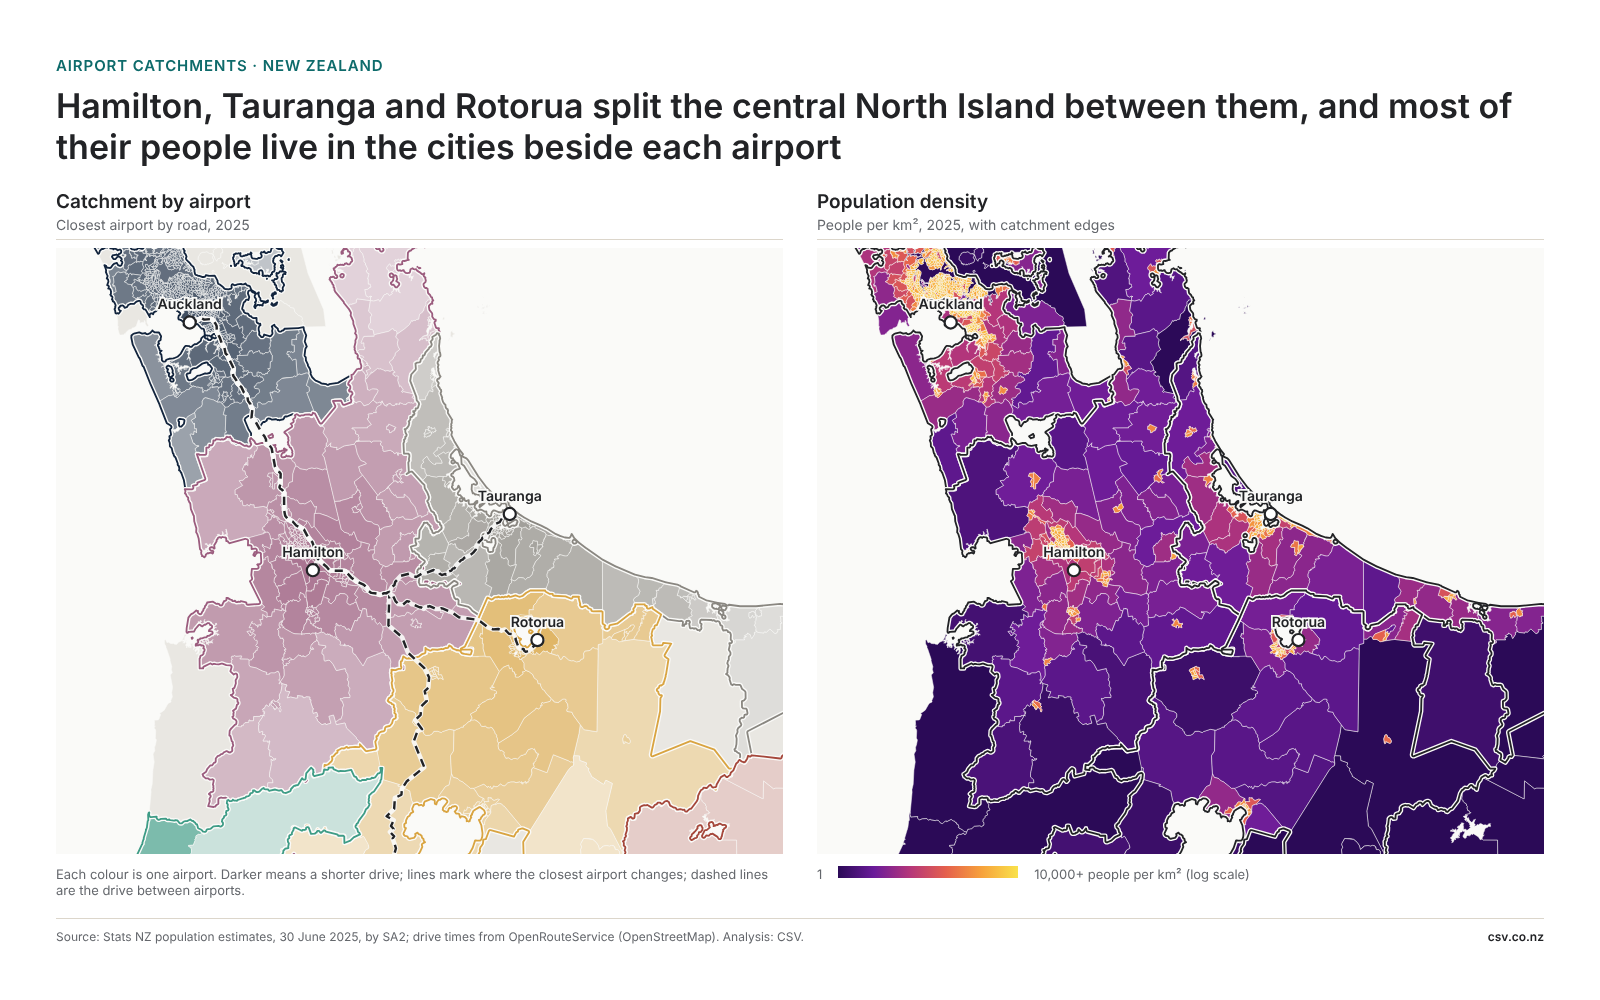
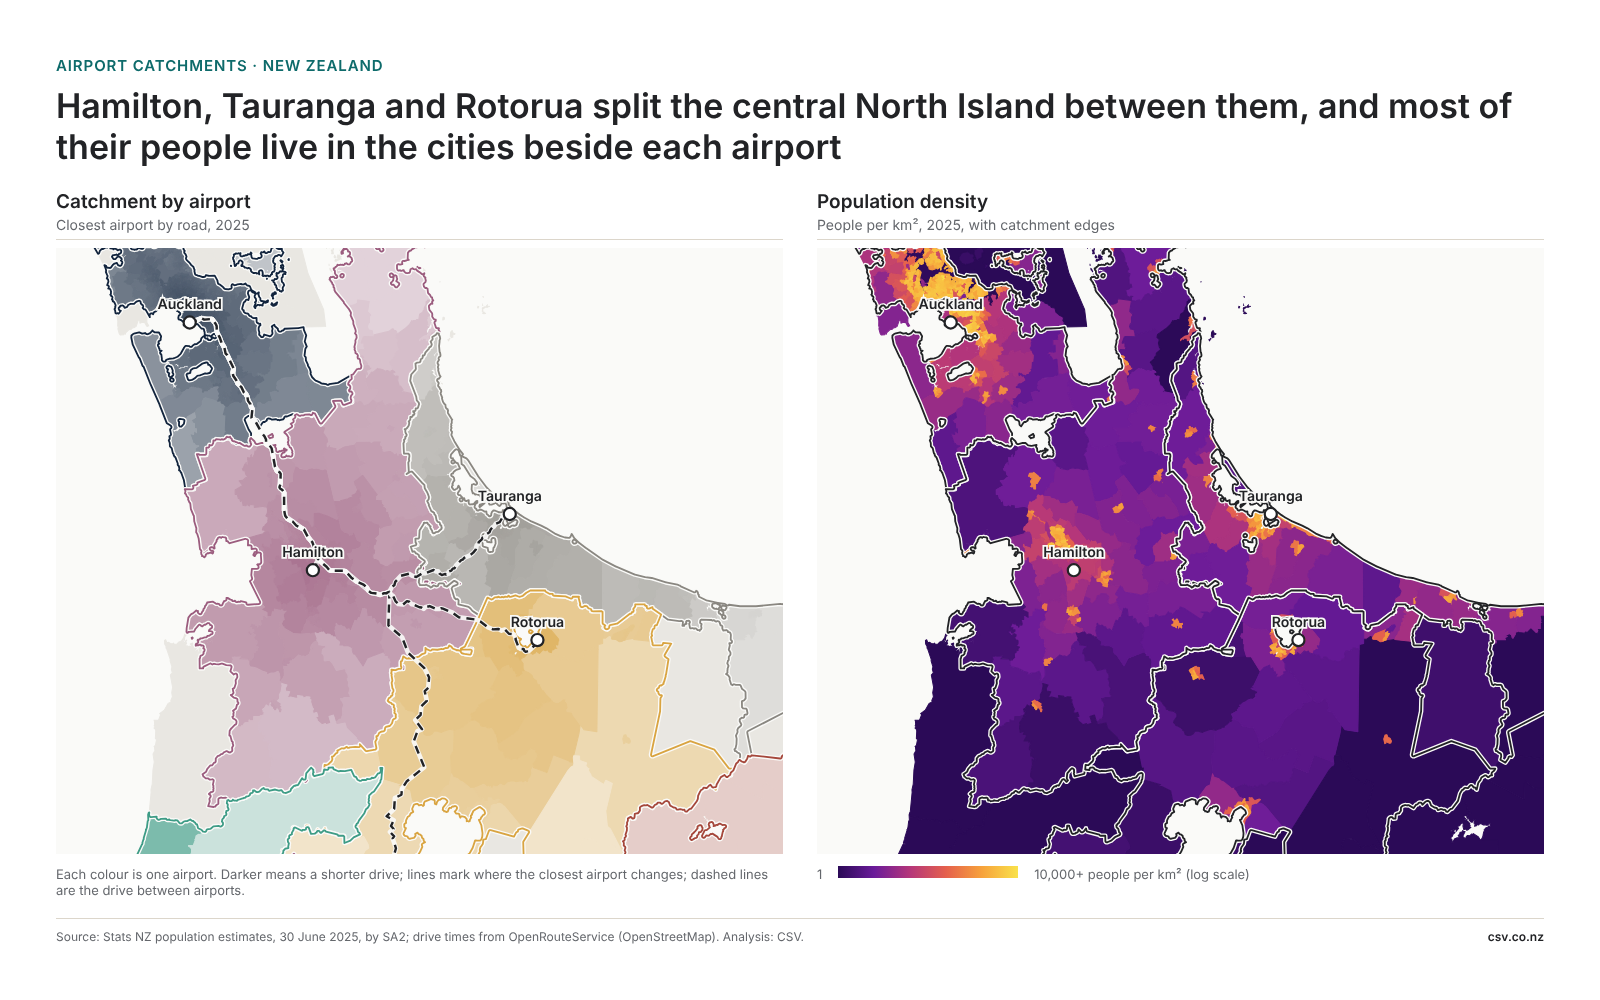
Publish charts 2026-11-16

diff --git a/catchments/combined/index.html b/catchments/combined/index.html
@@ -87,7 +87,7 @@
               <span class="range"><input id="head-start" type="range" min="0" max="120" step="5" value="0"><output for="head-start">0 min</output></span>
             </div>
             <fieldset class="field"><legend>Map lines</legend><div class="checks">
-              <label><input id="block-borders" type="checkbox" checked> Show block borders</label>
+              <label><input id="block-borders" type="checkbox"> Show block borders</label>
               <label><input id="catchment-outline" type="checkbox" checked> Show catchment outline</label>
               <label id="roads-field" hidden><input id="roads-on" type="checkbox" checked> Show roads between airports</label>
             </div></fieldset>
